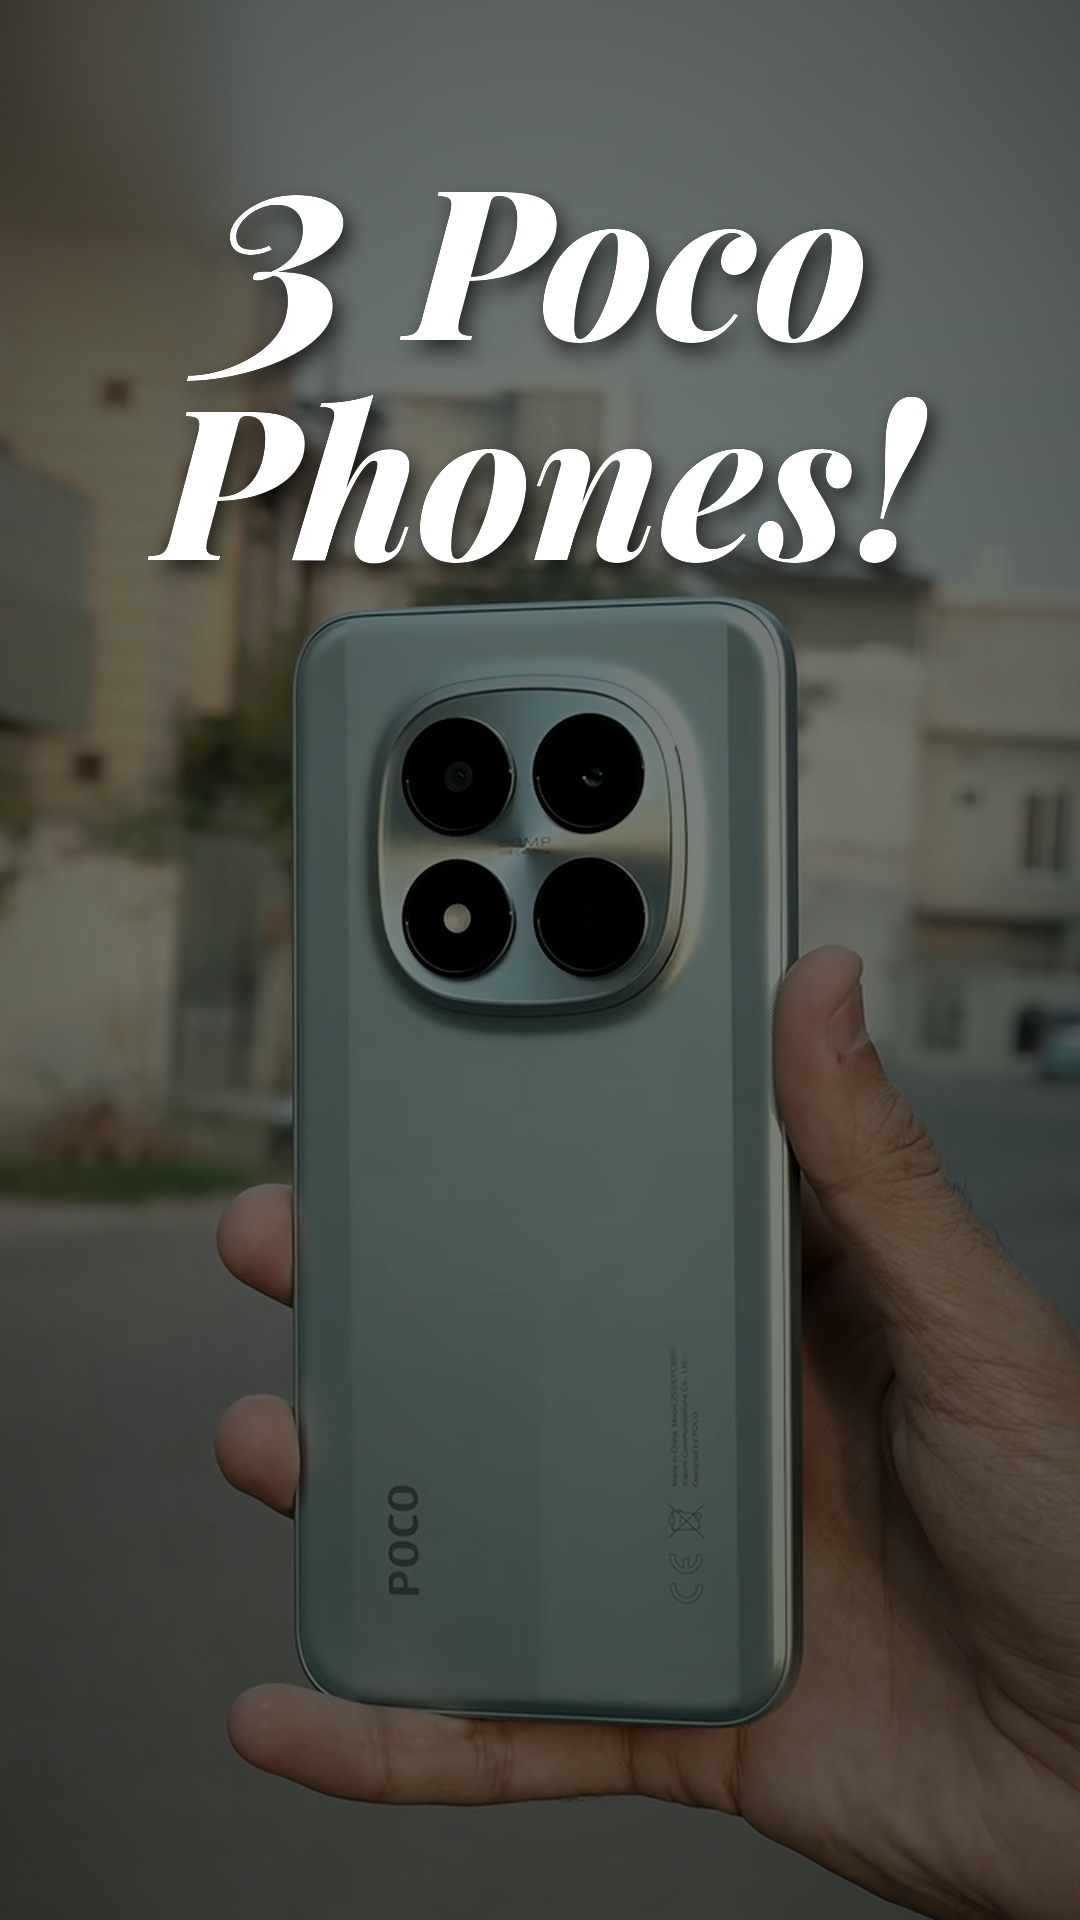
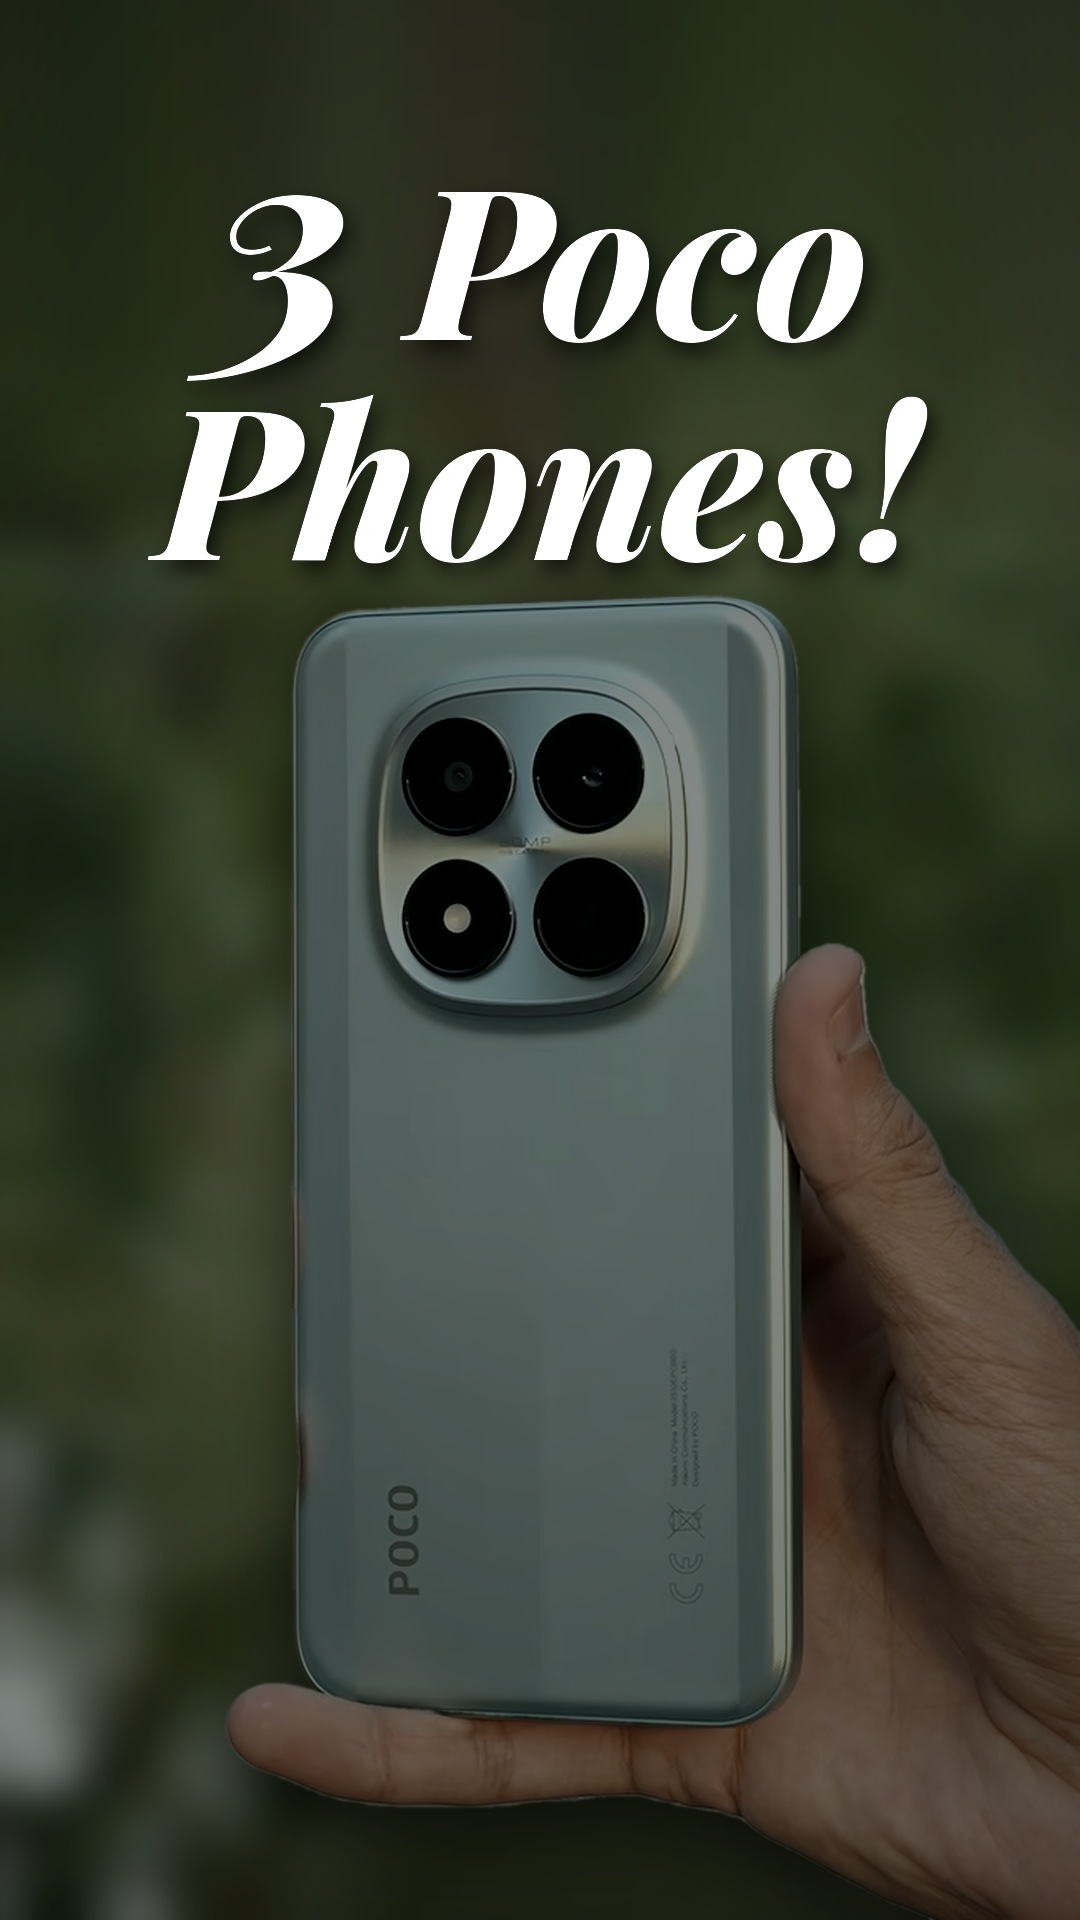
Thumbnails: same Infinix reference background and style for all videos
Claude-Session: https://claude.ai/code/session_01XKmtGdxvLNTN3BYe4CAH9y

diff --git a/.claude/skills/tech-shorts-editor/reference/thumbnails/thumbs3.py b/.claude/skills/tech-shorts-editor/reference/thumbnails/thumbs3.py
@@ -1,0 +1,67 @@
+import re,sys
+import numpy as np,cv2
+from PIL import Image,ImageDraw,ImageFont,ImageFilter,ImageEnhance
+from rembg import new_session,remove
+import thumbs as T
+W,H=1080,1920
+sess=new_session("isnet-general-use");sess_h=new_session("u2net_human_seg")
+def scaled(frame,cx,ptop,target=570):
+    src=Image.open(frame).convert("RGB");scale=min(1.6,max(1.2,(H-target)/(src.height-ptop)))
+    im=src.resize((int(src.width*scale),int(src.height*scale)),Image.LANCZOS)
+    x0=int(cx*scale-W/2);x0=max(0,min(im.width-W,x0));return im.crop((x0,0,x0+W,im.height))
+def grade(im,lum=None,tint=(66,88,80)):
+    if lum is None: lum=float(np.array(im.convert("L")).mean())
+    gain=min(1.1,max(0.55,92/max(lum,1)))
+    im=ImageEnhance.Color(im).enhance(0.62);a=np.array(im).astype(np.float32)*gain
+    a=a*0.80+np.array(tint,np.float32)*0.22;a=np.clip((a-110)*1.22+104,0,255);return Image.fromarray(a.astype(np.uint8))
+def cut(im):
+    m1=np.array(remove(im,session=sess,only_mask=True,post_process_mask=True)).astype(np.float32)
+    m2=np.array(remove(im,session=sess_h,only_mask=True,post_process_mask=True)).astype(np.float32)
+    m=np.maximum(m1,m2*(m2>128));return Image.fromarray(np.clip(m,0,255).astype(np.uint8))
+# ---- reference background from the Infinix frame (phone + hand removed, inpainted, blurred)
+ref=scaled("hand_full.png",950,190)
+mask=np.array(cut(ref).resize(ref.size))
+mk=cv2.dilate((mask>40).astype(np.uint8)*255,np.ones((61,61),np.uint8))
+small=cv2.resize(np.array(ref)[...,::-1],(W//4,ref.height//4));msmall=cv2.resize(mk,(W//4,ref.height//4),interpolation=cv2.INTER_NEAREST)
+inp=cv2.inpaint(small,msmall,9,cv2.INPAINT_TELEA);inp=cv2.GaussianBlur(inp,(0,0),5)
+bgim=Image.fromarray(cv2.resize(inp,(W,ref.height),interpolation=cv2.INTER_CUBIC)[...,::-1])
+# grade + extend to full canvas
+def full_bg():
+    g=grade(bgim,lum=float(np.array(ref.convert("L")).mean()))
+    off=H-g.height;canvas=Image.new("RGB",(W,H))
+    ext=g.crop((0,0,W,60)).resize((W,max(off,1)+260),Image.BILINEAR).filter(ImageFilter.GaussianBlur(40))
+    canvas.paste(ext.crop((0,0,W,off+260)),(0,0));full=canvas.copy();canvas.paste(g,(0,off))
+    m=Image.new("L",(W,H),0);md=ImageDraw.Draw(m)
+    for i in range(260): md.line((0,off+i,W,off+i),fill=int(255*i/260))
+    md.rectangle((0,off+260,W,H),fill=255);return Image.composite(canvas,full,m)
+BG=full_bg()
+def make(frame,cx,ptop,out,lines,target=570,size_override=None):
+    im=scaled(frame,cx,ptop,target)
+    a=cut(im).resize(im.size);alpha=np.array(a).astype(np.float32)/255.
+    alpha=np.clip((alpha-0.08)/0.84,0,1);alpha=np.array(Image.fromarray((alpha*255).astype(np.uint8)).filter(ImageFilter.GaussianBlur(1.2))).astype(np.float32)/255.
+    fg=grade(im,lum=float((np.array(im.convert("L")).astype(np.float32)*alpha).sum()/max(alpha.sum(),1)))
+    off=H-im.height
+    comp=BG.copy().convert("RGBA")
+    lay=Image.new("RGBA",(W,H),(0,0,0,0));fa=Image.fromarray((alpha*255).astype(np.uint8))
+    fgr=fg.convert("RGBA");fgr.putalpha(fa);lay.paste(fgr,(0,off))
+    sh=Image.new("RGBA",(W,H),(0,0,0,0));shm=Image.new("L",(W,H),0);shm.paste(fa.point(lambda v:v*150//255),(0,off+26))
+    sh.putalpha(shm.filter(ImageFilter.GaussianBlur(34)));comp.alpha_composite(sh);comp.alpha_composite(lay)
+    yy,xx=np.mgrid[0:H,0:W].astype(np.float32);v=np.sqrt(((xx-W/2)/(W*0.75))**2+((yy-H*0.55)/(H*0.7))**2)
+    ca=np.array(comp.convert("RGB")).astype(np.float32)*(1-0.38*np.clip(v,0,1.2)[...,None]**2)
+    comp=Image.fromarray(np.clip(ca,0,255).astype(np.uint8)).convert("RGBA")
+    dd=ImageDraw.Draw(comp);size=210
+    while max(dd.textlength(t,font=T.pf(size)) for t in lines)>960 and size>120: size-=6
+    ys=[340,340+int(size*1.05)]
+    for t,y in zip(lines,ys):
+        f=T.pf(size);ly=Image.new("RGBA",(W,H),(0,0,0,0));d=ImageDraw.Draw(ly)
+        segs=[(p,(T.pf(size*1.3) if p[0].isdigit() else f)) for p in re.findall(r"\d+|\D+",t)]
+        wsum=sum(d.textlength(x,font=ff) for x,ff in segs);x=W/2-wsum/2
+        for x_t,ff in segs: d.text((x+6,y+10),x_t,font=ff,fill=(0,0,0,170),anchor="ls");x+=d.textlength(x_t,font=ff)
+        ly=ly.filter(ImageFilter.GaussianBlur(10));d=ImageDraw.Draw(ly);x=W/2-wsum/2
+        for x_t,ff in segs: d.text((x,y),x_t,font=ff,fill=(255,255,255,255),anchor="ls");x+=d.textlength(x_t,font=ff)
+        comp.alpha_composite(ly)
+    comp.convert("RGB").save(out,quality=95)
+if __name__=="__main__":
+    ks=sys.argv[1:] or [k for k in T.T if k!="inf"]
+    for k in ks:
+        fr,cx,pt,s,l=T.T[k];make(fr,cx,pt,f"thumbN_{k}.png",l);print(k)

diff --git a/.claude/skills/tech-shorts-editor/reference/thumbnails/thumbs.py b/.claude/skills/tech-shorts-editor/reference/thumbnails/thumbs.py
@@ -53,7 +53,7 @@ T={"inf":("hand_full.png",950,190,1.55,["7 Months","Later!"]),
 "poco":("hand_poco.png",1011,255,1.6,["3 Poco","Phones!"]),
 "pixel":("hand_pixel.png",945,135,1.4,["Pixel 9a","Review!"]),
 "s26":("hand_s26.png",930,165,1.45,["Galaxy S26","FE Review!"]),
-"s26v":("hand_s26v.png",1080,300,1.2,["S26 FE vs","S25 FE!"]),
+"s26v":("hand_s26v.png",960,110,1.5,["S26 FE vs","S25 FE!"]),
 "origin":("hand_origin.png",990,105,1.42,["Origin OS 7","Review!"])}
 if __name__=="__main__":
     import sys
